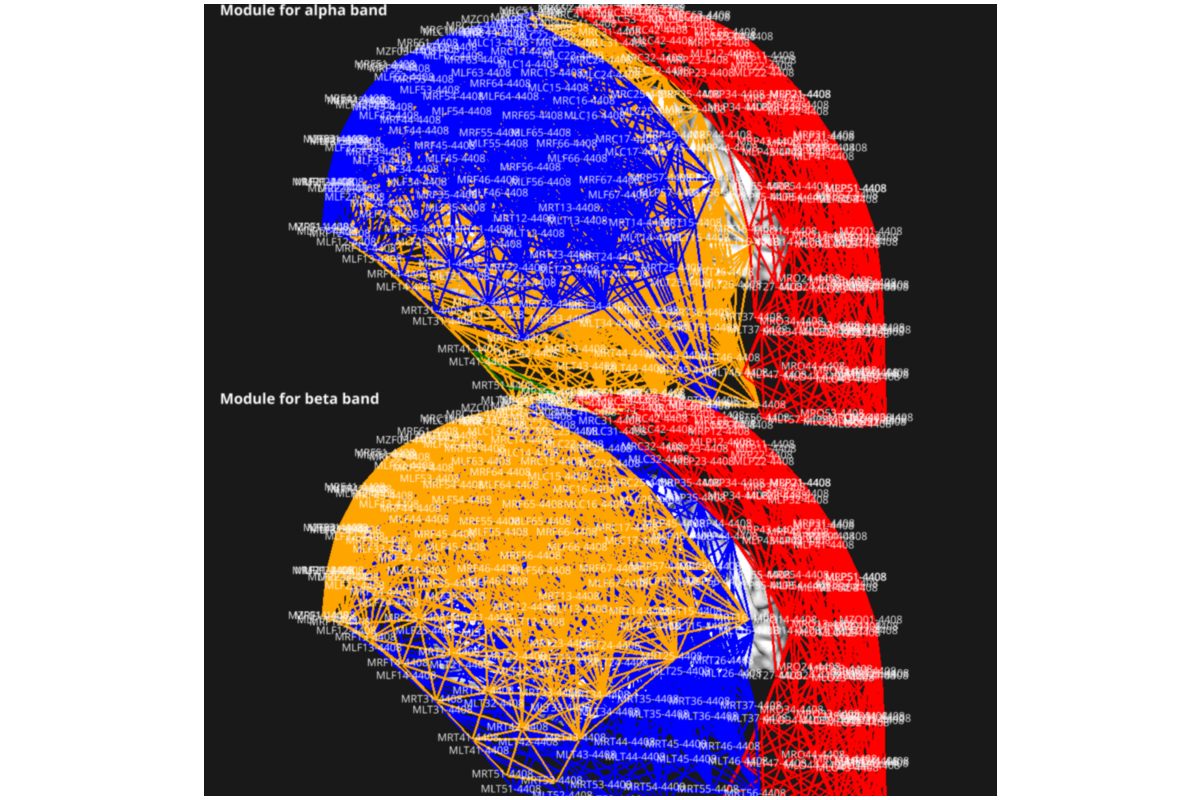
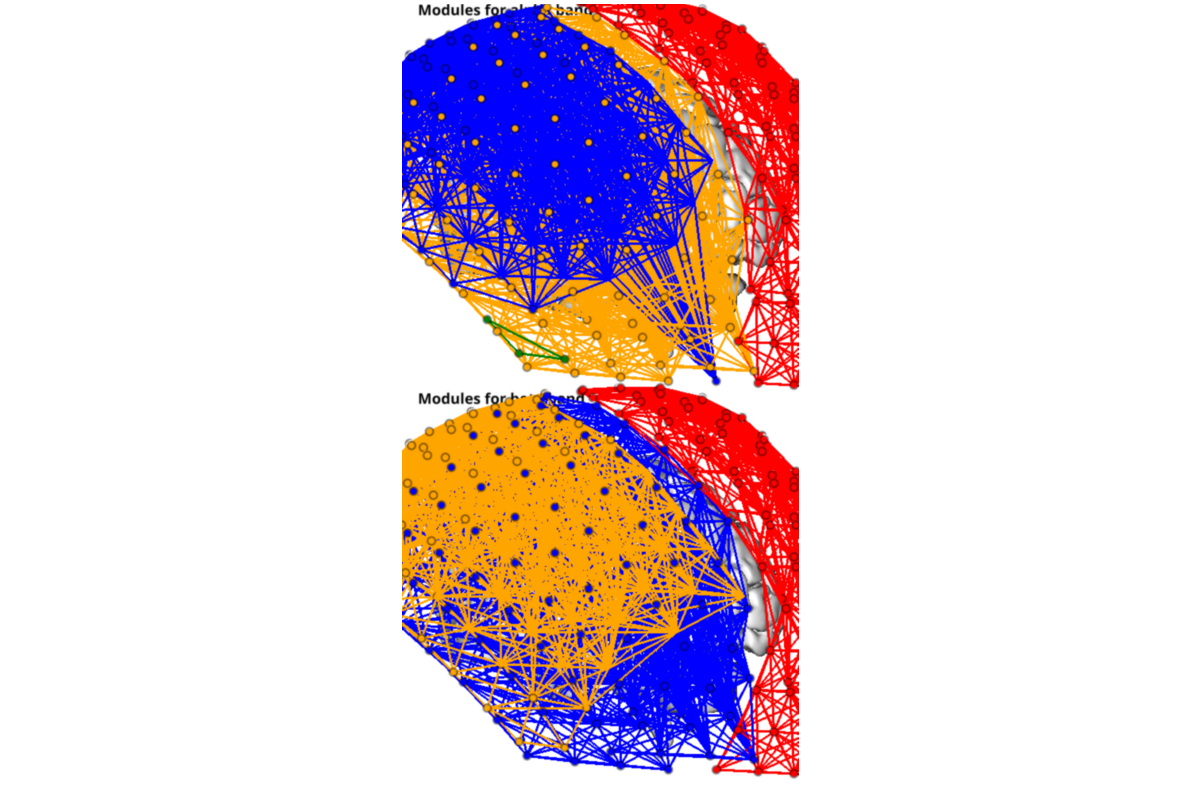
Make install

diff --git a/searchindex.js b/searchindex.js
@@ -1,1 +1,1 @@
-Search.setIndex({docnames:["api","auto_examples/index","auto_examples/plot_conmat_to_graph","auto_examples/plot_inv_ts_to_graph","auto_examples/plot_nii_to_conmat","auto_examples/plot_nii_to_graph","index"],envversion:{"sphinx.domains.c":1,"sphinx.domains.changeset":1,"sphinx.domains.cpp":1,"sphinx.domains.javascript":1,"sphinx.domains.math":2,"sphinx.domains.python":1,"sphinx.domains.rst":1,"sphinx.domains.std":1,"sphinx.ext.intersphinx":1,"sphinx.ext.viewcode":1,sphinx:55},filenames:["api.rst","auto_examples/index.rst","auto_examples/plot_conmat_to_graph.rst","auto_examples/plot_inv_ts_to_graph.rst","auto_examples/plot_nii_to_conmat.rst","auto_examples/plot_nii_to_graph.rst","index.rst"],objects:{},objnames:{},objtypes:{},terms:{"01_meg_0_60_raw_filt_dsamp_ica_roi_t":3,"class":2,"export":6,"final":[2,3,4,5],"function":[2,3,6],"import":[2,3,4,5],"int":5,"true":[2,3,4,5],"try":[2,3,4,5],AND:3,For:[2,3],The:[2,3,4,5,6],Then:[2,3,4,5],__path__:[2,3,4,5],_blank:2,_freq_band_name_:[2,3,4,5],_session_rs_subject_id_test:5,_subject_id_sub:3,add:6,add_to_subplot:[2,3,4,5],admiss:[2,3],advanc:6,again:[2,3],algorithm:[2,3],all:[1,2,3,4,5,6],alon:6,alpha:[2,3],also:[2,3],analys:[2,3,4,5,6],analysi:[2,3,4,5,6],anatcsf:[4,5],anatwm:[4,5],anoth:6,api:6,assort:3,astyp:5,atla:[4,5],author:[2,3,4,5],auto_examples_jupyt:1,auto_examples_python:1,avail:[2,3,4,5],axi:[2,3,4,5],b_obj:[2,3,4,5],background:[],band:[2,3,4,5],base:[2,3,6],base_dir:[2,3,4,5],base_directori:[2,3,4,5],bashrc:6,best:[2,3],beta:[2,3],bgcolor:[2,3,4,5],bigger:6,black:3,both:3,brain:6,brainobj:[2,3,4,5],briefli:[2,3],bsd:[2,3,4,5],c_colval:5,c_obj:[2,3,4,5],can:[2,3,4,5,6],cartstd:5,cat:[2,3,6],chain:3,chanc:[2,3],check:[2,3,4,5],chosen:[2,3],classic:3,claus:[2,3,4,5],clean:5,click:[2,3,4,5],code:[1,2,3,4,5],coh:3,coher:[2,3],color:[2,3,4,5],com:6,common:6,commonli:6,commrada:3,commun:3,communities_detect:6,communities_tool:6,community_rada:[2,3,4,5],comput:[1,6],compute_conf_cor_mat:5,con_den:[2,3,4,5],con_method:3,conf_interval_prob:[4,5],config:[2,3,4,5],conmat:1,conmat_0_coh:[2,4,5],conmat_analysis_nam:[4,5],conmat_fil:[2,3,5],conmat_to_graph:[2,3,4,5,6],connec:[2,4,5],connect:[1,6],contain:[2,3],coord:5,coords_fil:[2,3,4,5],cor_wf:4,cor_workflow:5,corrdespond:[2,3,4,5],correct_channel_nam:[2,4,5],correl:[2,3,4,5],correspond:[2,3,4,5],cpu:[2,3,4,5],creat:[2,3,4,5],create_datagrabb:[2,4,5],create_iter:3,create_pipeline_conmat_to_graph_dens:[2,3,5],create_pipeline_nii_to_conmat_seg_templ:[4,5],create_pipeline_time_series_to_spectral_connect:3,csf_anat_fil:[4,5],data:[2,3,4,5,6],data_con:3,data_con_meg:2,data_graph:[2,3,4,5],data_inv_t:3,data_matrix:4,data_nii:[4,5],data_path:[2,3,4,5],datagrabb:[2,3,4,5],datasourc:[2,3,4,5],david:[2,3,4,5,6],david_meunier_79:[2,3,4,5],default_s:3,defin:6,deim:[2,3,6],densiti:[2,3,4,5],describ:3,detail:[2,3],detect:3,develop:6,dict:[2,3,4,5],dictionnari:3,differ:[2,3,6],directli:3,directori:[2,3,4,5,6],download:[1,2,3,4,5,6],each:6,easi:6,edg:[2,3,4,5],eeg:6,effici:3,electrophysiolog:6,engin:[2,3,4,5,6],enumer:[2,3,4,5],env:6,ephypyp:[2,3,6],epoch_window_length:3,etc:[2,3],exampl:[2,3,4,5],except:[2,3,4,5],execut:[2,3,4,5],exist:6,exit:[2,3,4,5],expect:[2,3],extract:[3,6],f99ua1:5,f_face:5,f_vert:5,face:5,facilit:6,fals:[2,3,4,5],fast:[2,3,6],field:[2,4,5,6],fif:[3,6],figsiz:[2,3,4,5],figur:[2,3,4,5],file:[1,3,6],filenam:[2,3,4,5],find_commun:6,first:[2,3,4,5],flat:5,fmri:6,focu:6,follow:6,format:[2,3,4,5,6],found:[2,3,4,5],framework:6,freq_band:3,freq_band_nam:[2,3,4,5],frequenc:[2,3],frequency_nod:3,from:[1,6],full:[2,3,4,5],fulli:[2,3,4,5],func:3,func_sess:[4,5],galleri:[2,3,4,5],gener:[1,2,3,4,5],genfromtxt:5,get_frequency_band:3,github:6,given:1,global:[2,3],gomez:[2,3,6],grab:[2,3,4,5],graph2us:[2,3,4,5],graph:[1,4,5,6],graph_analysi:2,graph_analysis_nam:[2,3,4,5],graph_den_pipe_den_0_1:5,graph_den_pipe_den_:[2,3,4,5],graph_workflow:[2,3,5],graphpyp:[0,2,3,4,5],green:5,have:[2,3],here:[2,3,4,5],higher:[2,3],highest:[2,3,4,5],home:[5,6],hotmail:[2,3,4,5],how:[2,3,4,5],href:2,html:2,http:[2,3,6],hub_to_non_hub:3,identityinterfac:[2,4,5],imag:6,img:[2,3,4,5],img_fil:[4,5],implement:[3,6],importerror:[2,3,4,5],imread:[2,3,4,5],imshow:[2,3,4,5],includ:6,indexed_mask:[4,5],infield:[2,3,4,5],info:3,infosourc:[2,3,4,5],input:[2,3,4,5,6],inputnod:[2,3,4,5],instal:[2,3,4,5],instanti:3,inter_modul:[2,3,4,5],interest:3,interfac:[2,3,4,5],inv_ts_to_graph:[3,6],inv_ts_to_graph_analysi:3,ipynb:[2,3,4,5],iter:[2,3,4,5],job:[2,3,4,5],join:[2,3,4,5],json:[2,3,4,5],jupyt:[1,2,3,4,5],kit:6,label:[],label_centroid:3,label_nam:3,labels_fil:[2,3,4,5],last:[2,3],least:[2,3],left:[2,3,4,5],lego:6,licens:[2,3,4,5],lightblu:5,line:6,linux32:6,linux64:6,list_sourc:3,load:[2,3,4,5],local:[2,3,4,5],lol:[2,3,4,5],lol_fil:[2,3,4,5],longer:[2,3],loop:2,macaqu:5,main:6,main_path:[4,5],main_workflow:[2,3,4,5],make:3,mani:6,martino:2,master:6,mat:6,matlab:6,matplotlib:[2,3,4,5],matric:6,matrix:1,maximum:[2,3],mayb:6,mean:[2,3,4,5],meg:[3,6],mesh:5,metric:3,meunier:[2,3,4,5],miniconda3:5,minut:[2,3,4,5],misc:[2,3,4,5],mne:[2,6],mni_coord:[2,4,5],modal:6,modul:[2,3,4,5,6],moment:[2,3,4,5],monkei:5,more:[2,3],most:3,multi:6,multipl:3,multiproc:[2,3,4,5],n_proc:[2,3,4,5],name:[2,3,4,5],need:[2,3,4,5],net:[2,3,4,5],net_fil:[2,3,4,5],netproprada:3,network_properti:6,network_tool:6,neuro:6,neuroimag:6,neuropycon_data:[2,3,4,5],nii:1,nii_4d_fil:[4,5],nii_to_conmat:[4,5],nii_to_graph:5,nio:[2,3,4,5],nipyp:[2,3,4,5,6],node:[0,2,3,4,5,6],node_rol:[3,5],noqa:[2,3,4,5],notebook:[1,2,3,4,5],notic:[2,3,4,5],now:[2,3,4,5],npy:[2,3,4,5,6],number:[2,3],numpi:[5,6],object:[2,3,4,5],off:[2,3,4,5],one:[2,3],open:[2,3,4,5,6],optim_seq:[2,3,5],optimis:[2,3,4,5],option:[2,3,4,5],order:[2,3],org:2,other_tool:6,our:[2,3,4,5],out:[2,3,4,5],outfield:[2,3,4,5],output:[2,3,4,5,6],over:[3,6],packag:[5,6],paramet:[2,3,4,5],params_connect:3,params_graph:[2,3,4,5],parrallel:3,particular:[2,3,6],pass:[2,3,4,5],path:[2,3,4,5,6],paus:[2,3,4,5],pearson:[2,3],percentag:[2,3,4,5],perform:[2,3,4,5],php:[2,3,6],pip:[2,3,4,5,6],pipelin:[0,2,3,4,5,6],pli:[2,3],plot:[2,3,4,5],plot_conmat_to_graph:2,plot_connectivity_circl:2,plot_inv_ts_to_graph:3,plot_nii_to_conmat:4,plot_nii_to_graph:5,plotspectralconn:2,plt:[2,3,4,5],plugin:[2,3,4,5],plugin_arg:[2,3,4,5],png:[2,3,4,5],possibl:6,pprint:[2,3,4,5],prep_rada:[2,3,4,5],prepare_network:6,present:[2,3,4,5],preview:[2,3,4,5],previou:3,print:[2,3,4,5],process:6,project:6,properti:1,propos:[2,3],provid:6,purpl:5,pyplot:[2,3,4,5],python3:6,python:[1,2,3,4,5,6],rada:3,rada_path:6,radatool:[2,3],radatools_optim:[2,3,4,5],raw:[2,3,6],rcsf_mask_fil:[4,5],reach:[2,3],readi:[2,3,4,5],readm:[2,3],red:5,reformat_result:6,reliabl:[2,3],remove_unnecessary_output:[2,3,4,5],repetit:[2,3],replac:[2,3,4,5,6],repo:6,reposit:[2,3],requir:[2,3],res_path:[2,3,4,5],rest_run:3,result:[2,3],retain:[2,3,4,5],roi:4,roi_coord:[4,5],roi_coords_fil:[4,5],roi_label:[4,5],roi_labels_fil:[4,5],roi_mask_fil:[4,5],roi_mni_coord:[4,5],roi_mni_coords_fil:[4,5],role:3,roles_fil:[3,5],rotat:[2,3,4,5],row:[2,3,4,5],rp_file:[4,5],run:[2,3,4,5,6],rwm_mask_fil:[4,5],s_bold:[4,5],s_obj:[2,3,4,5],s_task:[3,4,5],sampl:3,sceneobj:[2,3,4,5],scipi:[2,3,4,5],script:[2,3,4,5],search:[2,3],second:[2,3,4,5],see:[2,3],select:4,sequenc:[2,3,4,5],sergio:[2,3,6],seri:[3,4,5,6],session:[4,5],set:6,sever:[2,3],sfreq:3,shape:4,should:[2,3,4,5,6],show:[2,3,4,5],sign:[2,3],size:[2,3,4,5],skip_head:5,small:3,softwar:6,some:[2,3],sort_filelist:[2,3,4,5],sotwar:6,sourc:[1,2,3,4,5,6],specifi:[2,3,4,5,6],spectral:[2,3,6],spectral_connect:2,spectral_connectivity_paramet:3,spectral_workflow:3,spectralconn:2,sphinx:[1,2,3,4,5],stabl:2,stand:6,start:3,std:5,step:6,store:[2,3,4,5],str:[2,3,4,5],sub:[3,4,5],subject_id:[3,4,5],subsequ:6,symetr:[2,4,5],tabu:[2,3],take:[2,3,4,5],taken:[2,3,4,5],target:2,tell:[2,3,4,5],templat:[2,3,4,5],template_arg:[2,3,4,5],template_path:[2,3,4,5],test:[2,3,4,5],test_mask:[4,5],tfrf:[2,3,5],theoret:6,thi:[2,3,4,5],thread:6,three:6,threshold:[2,3,4,5],thu:3,time:[2,3,4,5,6],titl:[2,3,4,5],title_bold:[2,3,4,5],title_color:[2,3,4,5],title_s:[2,3,4,5],togeth:[2,3,4,5,6],tool:6,topo:5,total:[2,3,4,5],transluc:[2,3,4,5],transpos:4,trial:3,ts_file:3,ts_to_conmat:3,two:[2,3,4,5,6],txt:[2,3,4,5],typic:[2,3],unsign:[2,3],upon:[2,3,4,5],urv:[2,3,6],use:3,use_this_cam:[2,3,4,5],usecol:5,used:[2,3,6],user:6,using:2,util:[0,2,4,5],utils_visbrain:[2,3,4,5],valu:[2,3,4,5],variabl:6,veri:[2,3,6],vert:5,vertic:5,visbrain:[2,3,4,5],visu_graph_modul:[2,3,4,5],visu_graph_modules_rol:[3,5],visual:[2,3,4,5],viz:2,wai:6,warn:[2,3,4,5],weight:[2,3],well:6,what:2,when:3,where:6,which:[2,3,4,5,6],white:[2,4,5],within:[2,3,4,5],wm_anat_fil:[4,5],work:6,workflow:[2,3,4,5,6],world:3,wrap:6,write:[2,3,4,5],write_graph:[2,3,4,5],yellow:5,you:6,your:6,z_conf_cor_mat_fil:5,z_list:[2,3,4,5],z_offset:[2,4,5],zip:[1,6],zipbal:6},titles:["API Documentation","Examples Gallery","Compute Graph properties from a given connectivity matrix","Compute Graph properties from a given connectivity matrix","Compute Conmat from nii files properties from a given connectivity matrix","Compute Conmat from nii files properties from a given connectivity matrix","Neuropycon"],titleterms:{For:6,api:0,comput:[2,3,4,5],conmat:[4,5],connect:[2,3,4,5],document:0,exampl:1,file:[4,5],from:[2,3,4,5],galleri:1,given:[2,3,4,5],graph:[2,3],graphpyp:6,instal:6,matrix:[2,3,4,5],neuropycon:6,nii:[4,5],properti:[2,3,4,5],radatool:6}})
+Search.setIndex({docnames:["api","auto_examples/index","auto_examples/plot_conmat_to_graph","auto_examples/plot_inv_ts_to_graph","auto_examples/plot_nii_to_conmat","auto_examples/plot_nii_to_graph","index"],envversion:{"sphinx.domains.c":1,"sphinx.domains.changeset":1,"sphinx.domains.cpp":1,"sphinx.domains.javascript":1,"sphinx.domains.math":2,"sphinx.domains.python":1,"sphinx.domains.rst":1,"sphinx.domains.std":1,"sphinx.ext.intersphinx":1,"sphinx.ext.viewcode":1,sphinx:55},filenames:["api.rst","auto_examples/index.rst","auto_examples/plot_conmat_to_graph.rst","auto_examples/plot_inv_ts_to_graph.rst","auto_examples/plot_nii_to_conmat.rst","auto_examples/plot_nii_to_graph.rst","index.rst"],objects:{},objnames:{},objtypes:{},terms:{"01_meg_0_60_raw_filt_dsamp_ica_roi_t":3,"class":2,"export":6,"final":[2,3,4,5],"function":[2,3,6],"import":[2,3,4,5],"int":5,"true":[2,3,4,5],"try":[2,3,4,5],AND:3,For:[2,3],The:[2,3,4,5,6],Then:[2,3,4,5],__path__:[2,3,4,5],_blank:2,_freq_band_name_:[2,3,4,5],_offset:[],_session_rs_subject_id_test:5,_subject_id_sub:3,add:6,add_to_subplot:[2,3,4,5],admiss:[2,3],advanc:6,again:[2,3],algorithm:[2,3],all:[1,2,3,4,5,6],alon:6,alpha:[2,3],also:[2,3],analys:[2,3,4,5,6],analysi:[2,3,4,5,6],anatcsf:[4,5],anatwm:[4,5],anoth:6,api:6,argument:[],assort:3,astyp:5,atla:[4,5],author:[2,3,4,5],auto_examples_jupyt:1,auto_examples_python:1,avail:[2,3,4,5],axi:[2,3,4,5],b_obj:[2,3,4,5],background:[],band:[2,3,4,5],base:[2,3,6],base_dir:[2,3,4,5],base_directori:[2,3,4,5],bashrc:6,best:[2,3],beta:[2,3],bgcolor:[2,3,4,5],bigger:6,black:[2,3],both:3,brain:6,brainobj:[2,3,4,5],briefli:[2,3],bsd:[2,3,4,5],c_colval:5,c_obj:[2,3,4,5],call:[],can:[2,3,4,5,6],cartstd:5,cat:[2,3,6],chain:3,chanc:[2,3],check:[2,3,4,5],chosen:[2,3],classic:3,claus:[2,3,4,5],clean:5,click:[2,3,4,5],code:[1,2,3,4,5],coh:3,coher:[2,3],color:[2,3,4,5],com:6,common:6,commonli:6,commrada:3,commun:3,communities_detect:6,communities_tool:6,community_rada:[2,3,4,5],comput:[1,6],compute_conf_cor_mat:5,con_den:[2,3,4,5],con_method:3,conf_interval_prob:[4,5],config:[2,3,4,5],conmat:1,conmat_0_coh:[2,4,5],conmat_analysis_nam:[4,5],conmat_fil:[2,3,5],conmat_to_graph:[2,3,4,5,6],connec:[2,4,5],connect:[1,6],contain:[2,3],coord:5,coords_fil:[2,3,4,5],cor_wf:4,cor_workflow:5,corrdespond:[2,3,4,5],correct_channel_nam:[2,4,5],correl:[2,3,4,5],correspond:[2,3,4,5],cpu:[2,3,4,5],creat:[2,3,4,5],create_datagrabb:[2,4,5],create_iter:3,create_pipeline_conmat_to_graph_dens:[2,3,5],create_pipeline_nii_to_conmat_seg_templ:[4,5],create_pipeline_time_series_to_spectral_connect:3,csf_anat_fil:[4,5],data:[2,3,4,5,6],data_con:3,data_con_meg:2,data_graph:[2,3,4,5],data_inv_t:3,data_matrix:4,data_nii:[4,5],data_path:[2,3,4,5],datagrabb:[2,3,4,5],datasourc:[2,3,4,5],david:[2,3,4,5,6],david_meunier_79:[2,3,4,5],default_s:3,defin:6,deim:[2,3,6],densiti:[2,3,4,5],describ:3,detail:[2,3],detect:3,develop:6,dict:[2,3,4,5],dictionnari:3,differ:[2,3,6],directli:3,directori:[2,3,4,5,6],download:[1,2,3,4,5,6],each:6,easi:6,edg:[2,3,4,5],eeg:6,effici:3,electrophysiolog:6,engin:[2,3,4,5,6],enumer:[2,3,4,5],env:6,ephypyp:[2,3,6],epoch_window_length:3,etc:[2,3],exampl:[2,3,4,5],except:[2,3,4,5],execut:[2,3,4,5],exist:6,exit:[2,3,4,5],expect:[2,3],extract:[3,6],f99ua1:5,f_face:5,f_vert:5,face:5,facilit:6,fals:[2,3,4,5],fast:[2,3,6],field:[2,4,5,6],fif:[3,6],figsiz:[2,3,4,5],figur:[2,3,4,5],file:[1,3,6],filenam:[2,3,4,5],find_commun:6,first:[2,3,4,5],flat:5,fmri:6,focu:6,follow:6,format:[2,3,4,5,6],found:[2,3,4,5],framework:6,freq_band:3,freq_band_nam:[2,3,4,5],frequenc:[2,3],frequency_nod:3,from:[1,6],full:[2,3,4,5],fulli:[2,3,4,5],func:3,func_sess:[4,5],galleri:[2,3,4,5],gener:[1,2,3,4,5],genfromtxt:5,get_frequency_band:3,github:6,given:1,global:[2,3],gomez:[2,3,6],got:[],grab:[2,3,4,5],graph2us:[2,3,4,5],graph:[1,4,5,6],graph_analysi:2,graph_analysis_nam:[2,3,4,5],graph_den_pipe_den_0_1:5,graph_den_pipe_den_:[2,3,4,5],graph_workflow:[2,3,5],graphpyp:[0,2,3,4,5],green:5,have:[2,3],here:[2,3,4,5],higher:[2,3],highest:[2,3,4,5],home:[5,6],hotmail:[2,3,4,5],how:[2,3,4,5],href:2,html:2,http:[2,3,6],hub_to_non_hub:3,identityinterfac:[2,4,5],imag:6,img:[2,3,4,5],img_fil:[4,5],implement:[3,6],importerror:[2,3,4,5],imread:[2,3,4,5],imshow:[2,3,4,5],includ:6,indexed_mask:[4,5],infield:[2,3,4,5],info:3,infosourc:[2,3,4,5],input:[2,3,4,5,6],inputnod:[2,3,4,5],instal:[2,3,4,5],instanti:3,inter_modul:[2,3,4,5],interest:3,interfac:[2,3,4,5],inv_ts_to_graph:[3,6],inv_ts_to_graph_analysi:3,ipynb:[2,3,4,5],iter:[2,3,4,5],job:[2,3,4,5],join:[2,3,4,5],json:[2,3,4,5],jupyt:[1,2,3,4,5],keyword:[],kit:6,label:[],label_centroid:3,label_nam:3,labels_fil:[2,3,4,5],last:[2,3],least:[2,3],left:[2,3,4,5],lego:6,licens:[2,3,4,5],lightblu:5,line:6,linux32:6,linux64:6,list_sourc:3,load:[2,3,4,5],local:[2,3,4,5],lol:[2,3,4,5],lol_fil:[2,3,4,5],longer:[2,3],loop:2,macaqu:5,main:6,main_path:[4,5],main_workflow:[2,3,4,5],make:3,mani:6,martino:2,master:6,mat:6,matlab:6,matplotlib:[2,3,4,5],matric:6,matrix:1,maximum:[2,3],mayb:6,mean:[2,3,4,5],meg:[3,6],mesh:5,metric:3,meunier:[2,3,4,5],miniconda3:5,minut:[2,3,4,5],misc:[2,3,4,5],mne:[2,6],mni_coord:[2,4,5],modal:6,modul:[2,3,4,5,6],moment:[2,3,4,5],monkei:5,more:[2,3],most:3,multi:6,multipl:3,multiproc:[2,3,4,5],n_proc:[2,3,4,5],name:[2,3,4,5],need:[2,3,4,5],net:[2,3,4,5],net_fil:[2,3,4,5],netproprada:3,network_properti:6,network_tool:6,neuro:6,neuroimag:6,neuropycon_data:[2,3,4,5],nii:1,nii_4d_fil:[4,5],nii_to_conmat:[4,5],nii_to_graph:5,nio:[2,3,4,5],nipyp:[2,3,4,5,6],node:[0,2,3,4,5,6],node_rol:[3,5],noqa:[2,3,4,5],notebook:[1,2,3,4,5],notic:[2,3,4,5],now:[2,3,4,5],npy:[2,3,4,5,6],number:[2,3],numpi:[5,6],object:[2,3,4,5],off:[2,3,4,5],one:[2,3],open:[2,3,4,5,6],optim_seq:[2,3,5],optimis:[2,3,4,5],option:[2,3,4,5],order:[2,3],org:2,other_tool:6,our:[2,3,4,5],out:[2,3,4,5],outfield:[2,3,4,5],output:[2,3,4,5,6],over:[3,6],packag:[5,6],paramet:[2,3,4,5],params_connect:3,params_graph:[2,3,4,5],parrallel:3,particular:[2,3,6],pass:[2,3,4,5],path:[2,3,4,5,6],paus:[2,3,4,5],pearson:[2,3],percentag:[2,3,4,5],perform:[2,3,4,5],php:[2,3,6],pip:[2,3,4,5,6],pipelin:[0,2,3,4,5,6],pli:[2,3],plot:[2,3,4,5],plot_conmat_to_graph:2,plot_connectivity_circl:2,plot_inv_ts_to_graph:3,plot_nii_to_conmat:4,plot_nii_to_graph:5,plotspectralconn:2,plt:[2,3,4,5],plugin:[2,3,4,5],plugin_arg:[2,3,4,5],png:[2,3,4,5],possibl:6,pprint:[2,3,4,5],prep_rada:[2,3,4,5],prepare_network:6,present:[2,3,4,5],preview:[2,3,4,5],previou:3,print:[2,3,4,5],process:6,project:6,properti:1,propos:[2,3],provid:6,purpl:5,pyplot:[2,3,4,5],python3:6,python:[1,2,3,4,5,6],rada:3,rada_path:6,radatool:[2,3],radatools_optim:[2,3,4,5],raw:[2,3,6],rcsf_mask_fil:[4,5],reach:[2,3],readi:[2,3,4,5],readm:[2,3],recent:[],red:5,reformat_result:6,reliabl:[2,3],remove_unnecessary_output:[2,3,4,5],repetit:[2,3],replac:[2,3,4,5,6],repo:6,reposit:[2,3],requir:[2,3],res_path:[2,3,4,5],rest_run:3,result:[2,3],retain:[2,3,4,5],roi:4,roi_coord:[4,5],roi_coords_fil:[4,5],roi_label:[4,5],roi_labels_fil:[4,5],roi_mask_fil:[4,5],roi_mni_coord:[4,5],roi_mni_coords_fil:[4,5],role:3,roles_fil:[3,5],rotat:[2,3,4,5],row:[2,3,4,5],rp_file:[4,5],run:[2,3,4,5,6],rwm_mask_fil:[4,5],s_bold:[4,5],s_obj:[2,3,4,5],s_task:[3,4,5],sampl:3,sceneobj:[2,3,4,5],scipi:[2,3,4,5],script:[2,3,4,5],search:[2,3],second:[2,3,4,5],see:[2,3],select:4,sequenc:[2,3,4,5],sergio:[2,3,6],seri:[3,4,5,6],session:[4,5],set:6,sever:[2,3],sfreq:3,shape:4,should:[2,3,4,5,6],show:[2,3,4,5],sign:[2,3],size:[2,3,4,5],skip_head:5,small:3,softwar:6,some:[2,3],sort_filelist:[2,3,4,5],sotwar:6,sourc:[1,2,3,4,5,6],specifi:[2,3,4,5,6],spectral:[2,3,6],spectral_connect:2,spectral_connectivity_paramet:3,spectral_workflow:3,spectralconn:2,sphinx:[1,2,3,4,5],stabl:2,stand:6,start:3,std:5,step:6,store:[2,3,4,5],str:[2,3,4,5],sub:[3,4,5],subject_id:[3,4,5],subsequ:6,symetr:[2,4,5],tabu:[2,3],take:[2,3,4,5],taken:[2,3,4,5],target:2,tell:[2,3,4,5],templat:[2,3,4,5],template_arg:[2,3,4,5],template_path:[2,3,4,5],test:[2,3,4,5],test_mask:[4,5],tfrf:[2,3,5],theoret:6,thi:[2,3,4,5],thread:6,three:6,threshold:[2,3,4,5],thu:3,time:[2,3,4,5,6],titl:[2,3,4,5],title_bold:[2,3,4,5],title_color:[2,3,4,5],title_s:[2,3,4,5],togeth:[2,3,4,5,6],tool:6,topo:5,total:[2,3,4,5],traceback:[],transluc:[2,3,4,5],transpos:4,trial:3,ts_file:3,ts_to_conmat:3,two:[2,3,4,5,6],txt:[2,3,4,5],typeerror:[],typic:[2,3],unexpect:[],unsign:[2,3],upon:[2,3,4,5],urv:[2,3,6],use:3,use_this_cam:[2,3,4,5],usecol:5,used:[2,3,6],user:6,using:2,util:[0,2,4,5],utils_visbrain:[2,3,4,5],valu:[2,3,4,5],variabl:6,veri:[2,3,6],vert:5,vertic:5,visbrain:[2,3,4,5],visu_graph_modul:[2,3,4,5],visu_graph_modules_rol:[3,5],visual:[2,3,4,5],viz:2,wai:6,warn:[2,3,4,5],weight:[2,3],well:6,what:2,when:3,where:6,which:[2,3,4,5,6],white:[4,5],within:[2,3,4,5],wm_anat_fil:[4,5],work:6,workflow:[2,3,4,5,6],world:3,wrap:6,write:[2,3,4,5],write_graph:[2,3,4,5],yellow:5,you:6,your:6,z_conf_cor_mat_fil:5,z_list:[2,3,4,5],z_offset:[2,4,5],zip:[1,6],zipbal:6},titles:["API Documentation","Examples Gallery","Compute Graph properties from a given connectivity matrix","Compute Graph properties from a given connectivity matrix","Compute Conmat from nii files properties from a given connectivity matrix","Compute Conmat from nii files properties from a given connectivity matrix","Neuropycon"],titleterms:{For:6,api:0,comput:[2,3,4,5],conmat:[4,5],connect:[2,3,4,5],document:0,exampl:1,file:[4,5],from:[2,3,4,5],galleri:1,given:[2,3,4,5],graph:[2,3],graphpyp:6,instal:6,matrix:[2,3,4,5],neuropycon:6,nii:[4,5],properti:[2,3,4,5],radatool:6}})

diff --git a/auto_examples/plot_conmat_to_graph.html b/auto_examples/plot_conmat_to_graph.html
@@ -273,7 +273,7 @@ here correspond to how we connected the nodes.</p>
 
 <span class="kn">from</span> <span class="nn">visbrain.objects</span> <span class="kn">import</span> <span class="n">SceneObj</span><span class="p">,</span> <span class="n">BrainObj</span> <span class="c1"># noqa</span>
 
-<span class="n">sc</span> <span class="o">=</span> <span class="n">SceneObj</span><span class="p">(</span><span class="n">size</span><span class="o">=</span><span class="p">(</span><span class="mi">1000</span><span class="p">,</span> <span class="mi">1000</span><span class="p">),</span> <span class="n">bgcolor</span><span class="o">=</span><span class="p">(</span><span class="o">.</span><span class="mi">1</span><span class="p">,</span> <span class="o">.</span><span class="mi">1</span><span class="p">,</span> <span class="o">.</span><span class="mi">1</span><span class="p">))</span>
+<span class="n">sc</span> <span class="o">=</span> <span class="n">SceneObj</span><span class="p">(</span><span class="n">size</span><span class="o">=</span><span class="p">(</span><span class="mi">500</span><span class="p">,</span> <span class="mi">1000</span><span class="p">),</span> <span class="n">bgcolor</span><span class="o">=</span><span class="p">(</span><span class="mi">1</span><span class="p">,</span> <span class="mi">1</span><span class="p">,</span> <span class="mi">1</span><span class="p">))</span>
 
 <span class="k">for</span> <span class="n">nf</span><span class="p">,</span> <span class="n">freq_band_name</span> <span class="ow">in</span> <span class="nb">enumerate</span><span class="p">(</span><span class="n">freq_band_names</span><span class="p">):</span>
 
@@ -285,16 +285,14 @@ here correspond to how we connected the nodes.</p>
     <span class="n">lol_file</span> <span class="o">=</span> <span class="n">op</span><span class="o">.</span><span class="n">join</span><span class="p">(</span><span class="n">res_path</span><span class="p">,</span> <span class="s2">&quot;community_rada&quot;</span><span class="p">,</span> <span class="s2">&quot;Z_List.lol&quot;</span><span class="p">)</span>
     <span class="n">net_file</span> <span class="o">=</span> <span class="n">op</span><span class="o">.</span><span class="n">join</span><span class="p">(</span><span class="n">res_path</span><span class="p">,</span> <span class="s2">&quot;prep_rada&quot;</span><span class="p">,</span> <span class="s2">&quot;Z_List.net&quot;</span><span class="p">)</span>
 
-    <span class="n">b_obj</span> <span class="o">=</span> <span class="n">BrainObj</span><span class="p">(</span><span class="s2">&quot;white&quot;</span><span class="p">,</span> <span class="n">translucent</span><span class="o">=</span><span class="bp">False</span><span class="p">)</span>
+    <span class="n">b_obj</span> <span class="o">=</span> <span class="n">BrainObj</span><span class="p">(</span><span class="s2">&quot;B1&quot;</span><span class="p">,</span> <span class="n">translucent</span><span class="o">=</span><span class="bp">False</span><span class="p">)</span>
     <span class="n">sc</span><span class="o">.</span><span class="n">add_to_subplot</span><span class="p">(</span>
         <span class="n">b_obj</span><span class="p">,</span> <span class="n">row</span><span class="o">=</span><span class="n">nf</span><span class="p">,</span> <span class="n">use_this_cam</span><span class="o">=</span><span class="bp">True</span><span class="p">,</span> <span class="n">rotate</span><span class="o">=</span><span class="s1">&#39;left&#39;</span><span class="p">,</span>
-        <span class="n">title</span><span class="o">=</span><span class="p">(</span><span class="s2">&quot;Module for {} band&quot;</span><span class="o">.</span><span class="n">format</span><span class="p">(</span><span class="n">freq_band_name</span><span class="p">)),</span>
-        <span class="n">title_size</span><span class="o">=</span><span class="mi">14</span><span class="p">,</span> <span class="n">title_bold</span><span class="o">=</span><span class="bp">True</span><span class="p">,</span> <span class="n">title_color</span><span class="o">=</span><span class="s1">&#39;white&#39;</span><span class="p">)</span>
+        <span class="n">title</span><span class="o">=</span><span class="p">(</span><span class="s2">&quot;Modules for {} band&quot;</span><span class="o">.</span><span class="n">format</span><span class="p">(</span><span class="n">freq_band_name</span><span class="p">)),</span>
+        <span class="n">title_size</span><span class="o">=</span><span class="mi">14</span><span class="p">,</span> <span class="n">title_bold</span><span class="o">=</span><span class="bp">True</span><span class="p">,</span> <span class="n">title_color</span><span class="o">=</span><span class="s1">&#39;black&#39;</span><span class="p">)</span>
 
-    <span class="n">c_obj</span><span class="p">,</span><span class="n">s_obj</span> <span class="o">=</span> <span class="n">visu_graph_modules</span><span class="p">(</span><span class="n">lol_file</span><span class="o">=</span><span class="n">lol_file</span><span class="p">,</span> <span class="n">net_file</span><span class="o">=</span><span class="n">net_file</span><span class="p">,</span>
-                               <span class="n">coords_file</span><span class="o">=</span><span class="n">coords_file</span><span class="p">,</span>
-                               <span class="n">labels_file</span><span class="o">=</span><span class="n">labels_file</span><span class="p">,</span> <span class="n">inter_modules</span><span class="o">=</span><span class="bp">False</span><span class="p">,</span>
-                               <span class="n">z_offset</span><span class="o">=+</span><span class="mi">50</span><span class="p">)</span>
+    <span class="n">c_obj</span><span class="p">,</span><span class="n">s_obj</span> <span class="o">=</span> <span class="n">visu_graph_modules</span><span class="p">(</span>
+        <span class="n">lol_file</span><span class="o">=</span><span class="n">lol_file</span><span class="p">,</span> <span class="n">net_file</span><span class="o">=</span><span class="n">net_file</span><span class="p">,</span> <span class="n">coords_file</span><span class="o">=</span><span class="n">coords_file</span><span class="p">,</span> <span class="n">inter_modules</span><span class="o">=</span><span class="bp">False</span><span class="p">,</span> <span class="n">z_offset</span><span class="o">=+</span><span class="mi">50</span><span class="p">)</span>
     <span class="n">sc</span><span class="o">.</span><span class="n">add_to_subplot</span><span class="p">(</span><span class="n">c_obj</span><span class="p">,</span> <span class="n">row</span><span class="o">=</span><span class="n">nf</span><span class="p">)</span>
     <span class="n">sc</span><span class="o">.</span><span class="n">add_to_subplot</span><span class="p">(</span><span class="n">s_obj</span><span class="p">,</span> <span class="n">row</span><span class="o">=</span><span class="n">nf</span><span class="p">)</span>
 
@@ -303,7 +301,7 @@ here correspond to how we connected the nodes.</p>
 </pre></div>
 </div>
 <img alt="../_images/sphx_glr_plot_conmat_to_graph_002.png" class="sphx-glr-single-img" src="../_images/sphx_glr_plot_conmat_to_graph_002.png" />
-<p><strong>Total running time of the script:</strong> ( 0 minutes  15.204 seconds)</p>
+<p><strong>Total running time of the script:</strong> ( 0 minutes  14.279 seconds)</p>
 <div class="sphx-glr-footer class sphx-glr-footer-example docutils container" id="sphx-glr-download-auto-examples-plot-conmat-to-graph-py">
 <div class="sphx-glr-download docutils container">
 <a class="reference download internal" download="" href="../_downloads/148019e1e7aad92d3808c5ede724a325/plot_conmat_to_graph.py"><code class="xref download docutils literal notranslate"><span class="pre">Download</span> <span class="pre">Python</span> <span class="pre">source</span> <span class="pre">code:</span> <span class="pre">plot_conmat_to_graph.py</span></code></a></div>

diff --git a/_downloads/148019e1e7aad92d3808c5ede724a325/plot_conmat_to_graph.py b/_downloads/148019e1e7aad92d3808c5ede724a325/plot_conmat_to_graph.py
@@ -174,7 +174,7 @@ coords_file = op.join(data_path, "MNI_coords.txt")
 
 from visbrain.objects import SceneObj, BrainObj # noqa
 
-sc = SceneObj(size=(1000, 1000), bgcolor=(.1, .1, .1))
+sc = SceneObj(size=(500, 1000), bgcolor=(1, 1, 1))
 
 for nf, freq_band_name in enumerate(freq_band_names):
 
@@ -186,16 +186,14 @@ for nf, freq_band_name in enumerate(freq_band_names):
     lol_file = op.join(res_path, "community_rada", "Z_List.lol")
     net_file = op.join(res_path, "prep_rada", "Z_List.net")
 
-    b_obj = BrainObj("white", translucent=False)
+    b_obj = BrainObj("B1", translucent=False)
     sc.add_to_subplot(
         b_obj, row=nf, use_this_cam=True, rotate='left',
-        title=("Module for {} band".format(freq_band_name)),
-        title_size=14, title_bold=True, title_color='white')
+        title=("Modules for {} band".format(freq_band_name)),
+        title_size=14, title_bold=True, title_color='black')
 
-    c_obj,s_obj = visu_graph_modules(lol_file=lol_file, net_file=net_file,
-                               coords_file=coords_file,
-                               labels_file=labels_file, inter_modules=False,
-                               z_offset=+50)
+    c_obj,s_obj = visu_graph_modules(
+        lol_file=lol_file, net_file=net_file, coords_file=coords_file, inter_modules=False, z_offset=+50)
     sc.add_to_subplot(c_obj, row=nf)
     sc.add_to_subplot(s_obj, row=nf)
 
